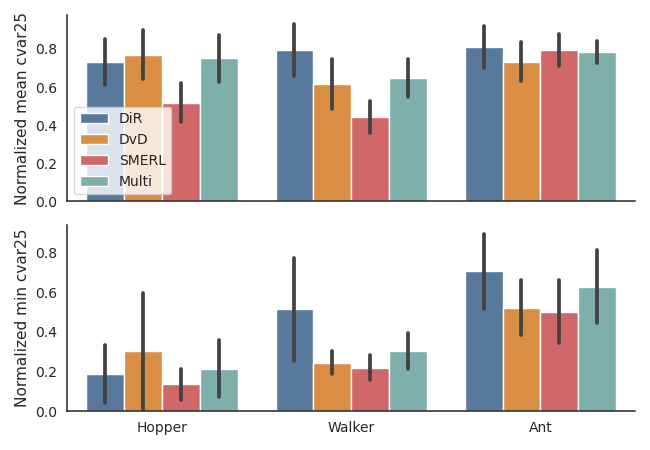
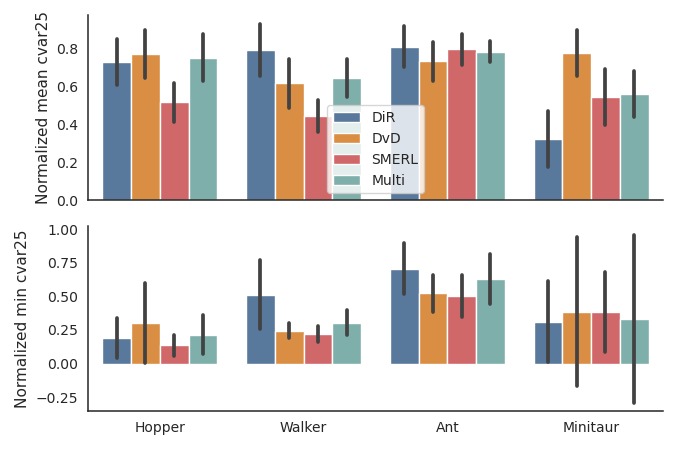
add fig

diff --git a/script_plot/visualize_feet_contact_fraction_scatter_for_walker.py b/script_plot/visualize_feet_contact_fraction_scatter_for_walker.py
@@ -114,6 +114,11 @@ def main(path: str, remark: str, num_episode: int) -> None:
 
 if __name__ == '__main__':
     chosen_exp_path     = '/home/xukang/Project/state_filtration_for_qd/results_for_ensemble/Walker-missing_leg_1-50/'
+    chosen_exp_path     = '/home/xukang/Project/state_filtration_for_qd/results_for_smerl_ppo/Walker-50/'
+    chosen_exp_path     = '/home/xukang/Project/state_filtration_for_qd/results_for_dvd/Walker-50/'
+    chosen_exp_path     = '/home/xukang/Project/state_filtration_for_qd/results_for_multi/Walker-50/'
+    
+
     chosen_mark         = 'best'
     main(
         path= chosen_exp_path,

diff --git a/script_plot/visualize_feet_contact_fraction_scatter_for_ant.py b/script_plot/visualize_feet_contact_fraction_scatter_for_ant.py
@@ -121,6 +121,10 @@ def main(path: str, remark: str, num_episode: int) -> None:
 
 if __name__ == '__main__':
     chosen_exp_path     = '/home/xukang/Project/state_filtration_for_qd/results_for_ensemble/Ant-missing_leg_1_2_3_4-70/'
+    chosen_exp_path     = '/home/xukang/Project/state_filtration_for_qd/results_for_smerl_ppo/Ant-70/'
+    chosen_exp_path     = '/home/xukang/Project/state_filtration_for_qd/results_for_dvd/Ant-70/'
+    chosen_exp_path     = '/home/xukang/Project/state_filtration_for_qd/results_for_multi/Ant-70/'
+
     chosen_mark         = 'best'
     main(
         path= chosen_exp_path,

diff --git a/baseline/smerl/test_in_cvar.py b/baseline/smerl/test_in_cvar.py
@@ -93,7 +93,8 @@ if __name__ == '__main__':
     }
 
     for env in [
-        'Walker', 'Hopper', 'Ant', 'Minitaur'
+        #'Walker', 'Hopper', 'Ant', 
+        'Minitaur'
     ]:
         if env in ['Walker', 'Hopper', 'Ant']:
             env_config = {

diff --git a/script_plot/compare_cvar_dist.py b/script_plot/compare_cvar_dist.py
@@ -16,7 +16,7 @@ all_envs = [
     'Hopper',
     'Walker',
     'Ant',
-    #'Minitaur'
+    'Minitaur'
 ]
 all_algs = [
     'DiR',
